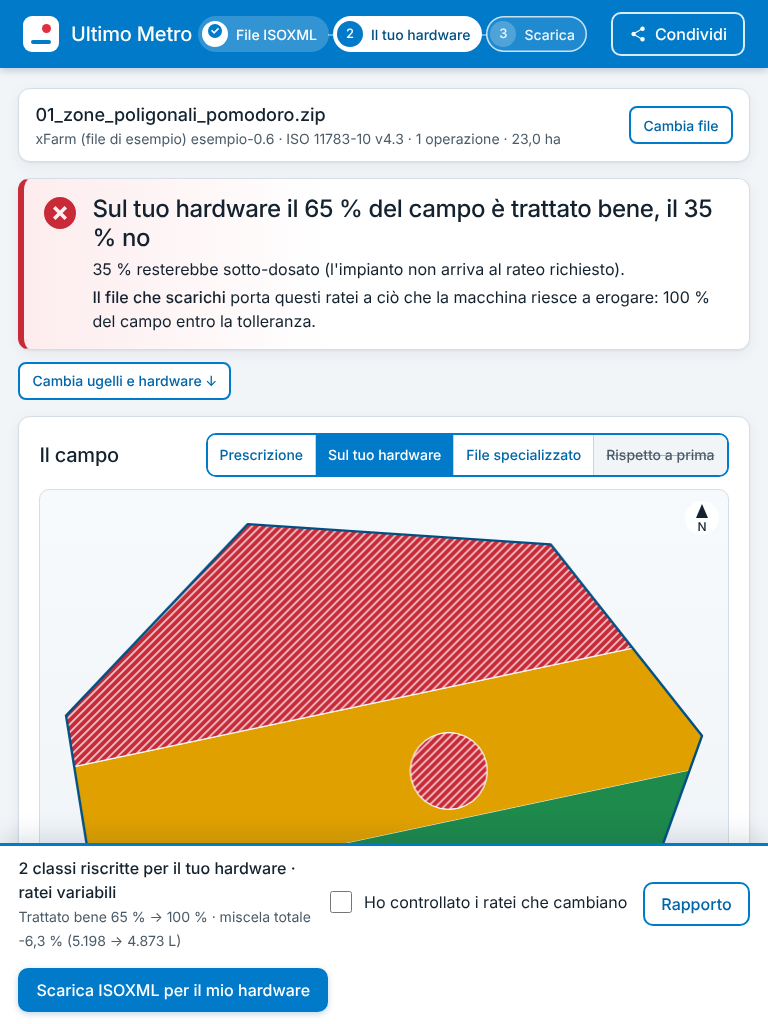
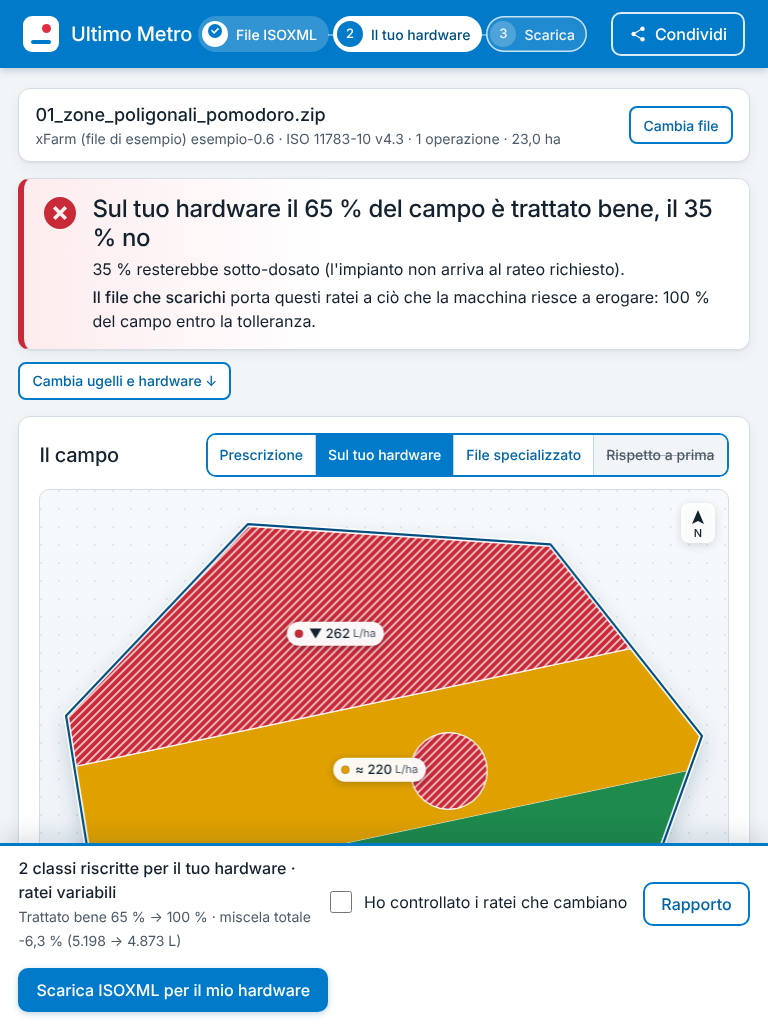
docs: mappa moderna, screenshot aggiornati e rapporto
File toccati: docs/UI_BASELINE.md, docs/ui-after/

Claude-Session: https://claude.ai/code/session_019QrLoT7P8aFNq9VXuyRYTS

diff --git a/docs/UI_BASELINE.md b/docs/UI_BASELINE.md
@@ -115,3 +115,21 @@ Il server classifica ogni operazione (`task.kind` in `um/isoxml.py`) e la mappa 
 Varianti che cambiano l'aspetto senza cambiare tipo: griglia **senza coordinate** adattata al campo (`geo: false`, es. 07), contorno del campo **ricavato dalla griglia** (`from_grid`), campo in **file esterno XFR** (es. 08), griglie grandi **campionate** per la visualizzazione (`decimated`).
 
 Su ognuna si applicano 4 viste di colore: Prescrizione (rampa blu per L/ha), Sul tuo hardware (stati), File specializzato (stati dopo la riscrittura), Rispetto a prima (meglio / peggio / invariato).
+
+## 7. Mappa più moderna (seconda fase, via libera a migliorare tutto il progetto)
+
+Nessuna rete esterna: la mappa resta utilizzabile offline sul campo. Screenshot in `docs/ui-after/mappa/`.
+
+| Novità | Valore per l'utente |
+|---|---|
+| Campo come «tessera» in rilievo (ombra) su sfondo a puntini, contorno con alone bianco | il campo si stacca dallo sfondo, lettura immediata |
+| **Etichette sulle zone** (poligoni e griglie a zone fino a 12 classi): pallino di stato + simbolo + rateo | i numeri chiave si leggono senza passare il mouse: Prescrizione = richiesto, Sul tuo hardware = erogato, File specializzato = nuovo rateo, Rispetto a prima = meglio/peggio |
+| Etichette senza sovrapposizioni (vincono le zone più grandi), nascoste se la zona è troppo piccola | niente testo illeggibile |
+| **Mappe continue sfumate** (griglia tipo 2, vista Prescrizione) | aspetto da mappa di vigore; nelle viste di stato le celle restano nette, per non mescolare colori di stati diversi |
+| **Dissolvenza** di 0,26 s quando cambiano vista o hardware (disattivata con «riduci movimento») | si vede dove la mappa cambia |
+| Zona evidenziata al passaggio del mouse (poligoni) | si capisce quale zona descrive il tooltip |
+| **Legenda con le quote**: ogni stato mostra la % della superficie trattata (stessa base dei KPI del server); in Prescrizione anche la media | la legenda diventa un riepilogo |
+| Scala e Nord in riquadri arrotondati | coerenti col resto dell'interfaccia |
+| Tooltip: dice se lo stato è «sul tuo hardware» o «nel file specializzato» | prima mostrava solo lo stato sull'hardware anche nella vista File specializzato |
+
+Altri miglioramenti della stessa fase: rapporto stampabile (`um/report.py`) con la nuova palette e badge con simbolo · stepper con `aria-current="step"` · `.gitignore` per le cache Python e cache `.pyc` tolte dal repository · file Source Sans 3 rimossi (non più usati) · test del font aggiornato al file Inter.
